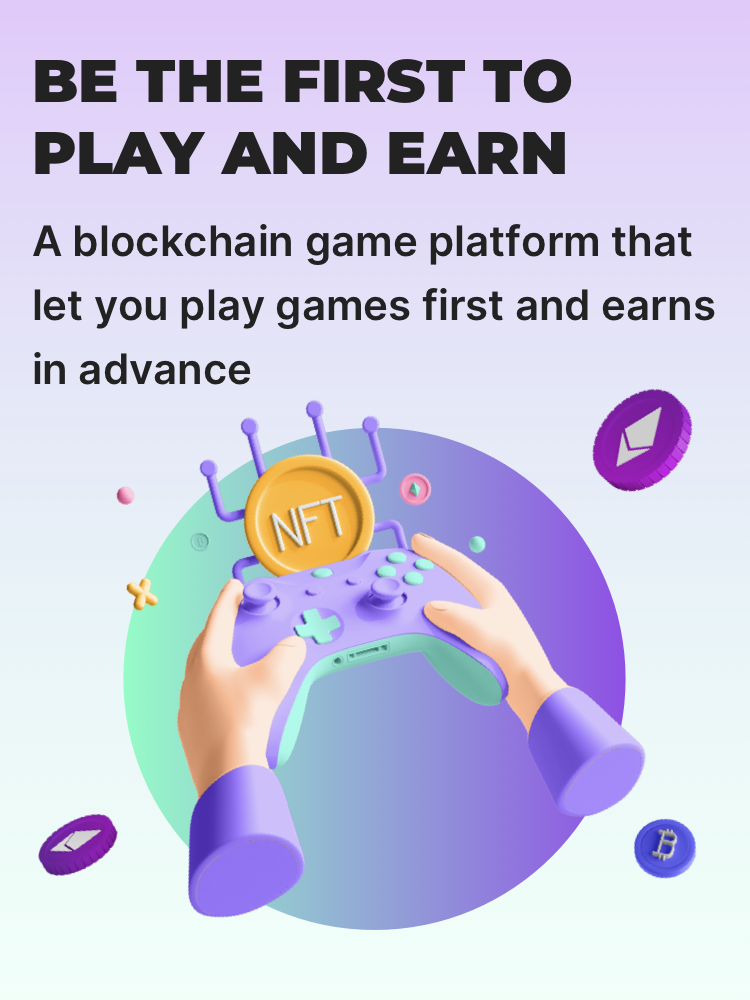
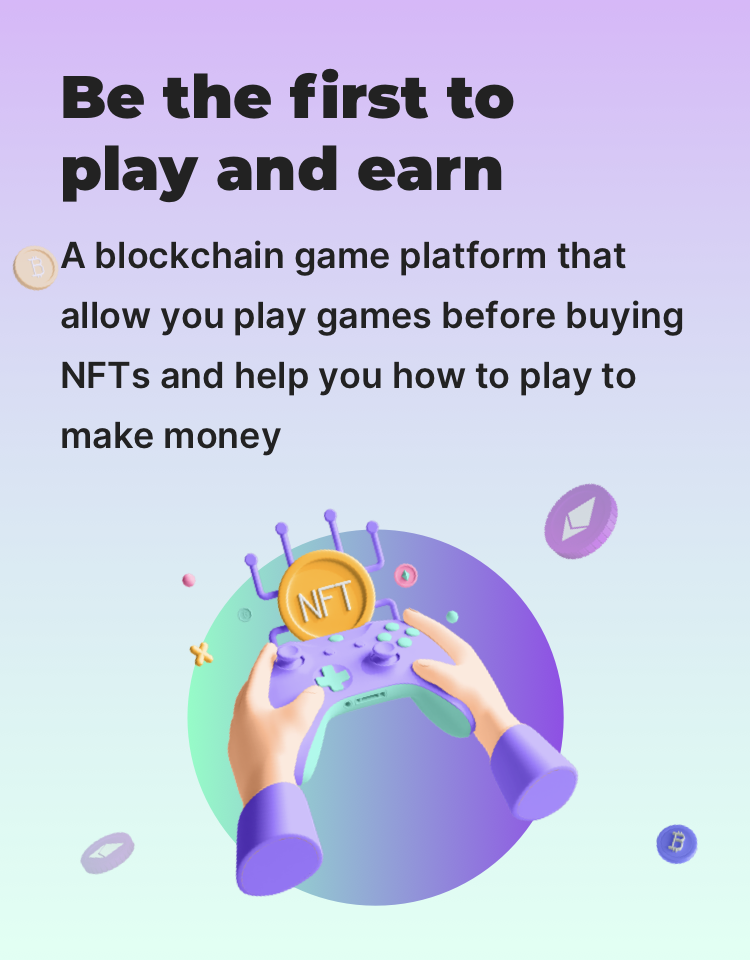
chore: update home page UI

diff --git a/components/Header/index.tsx b/components/Header/index.tsx
@@ -161,68 +161,70 @@ const Header: React.FC = () => {
       <Box className={styles.headerLogo}>
         <Image src="/headerLogo.png" alt="header logo" layout='fill' objectFit='contain' />
       </Box>
-      {!isMobileHeaderNav && <Box sx={{ display: 'flex', alignItems: 'center', height: '100%' }}>
-        <Stack direction="row" className={styles.headerNavs} >
-          <Box>
-            <Link href="/pass" >
-              <a target="_blank">{t('passNFT')}</a>
-            </Link>
-          </Box>
-          <Box>{t('games')}</Box>
-          <Box>{t('strategy')}</Box>
-        </Stack>
-        <Box className={styles.headerSetting}>
-          <Box className={styles.languageNav}>
-            <Box className={styles.headerNavImage}>
-              <Image src={HEADER_LANGUAGE} layout="fill" objectFit='contain' />
+      {!isMobileHeaderNav && isMounted &&
+        <Box sx={{ display: 'flex', alignItems: 'center', height: '100%' }}>
+          <Stack direction="row" className={styles.headerNavs} >
+            <Box>
+              <Link href="/pass" >
+                <a target="_blank">{t('passNFT')}</a>
+              </Link>
             </Box>
-            <Box className={styles.languageBox}>
-              <Box>
-                <Link href={asPath} locale="en-US">
-                  English
-                </Link>
+            <Box>{t('games')}</Box>
+            <Box>{t('strategy')}</Box>
+          </Stack>
+          <Box className={styles.headerSetting}>
+            <Box className={styles.languageNav}>
+              <Box className={styles.headerNavImage}>
+                <Image src={HEADER_LANGUAGE} layout="fill" objectFit='contain' />
               </Box>
-              <Box>
-                <Link href={asPath} locale="zh-CN">
-                  简体中文
-                </Link>
-              </Box>
-            </Box>
-          </Box>
-
-          <Box>
-            <Box className={styles.headerNavImage}>
-              <Image src={HEADER_SHARE} layout="fill" objectFit='contain' />
-            </Box>
-            <Box className={styles.socialMediaBox}>
-
-            </Box>
-          </Box>
-
-          {
-            address && isMounted ?
-              <Box
-                className={styles.walletNav}
-                onMouseEnter={() => { if (address) { setWalletMenu(true) } }}
-                onMouseLeave={() => setWalletMenu(false)}
-              >
-                <Box className={styles.headerNavImage} >
-                  <Image src={CONNECTED_WALLET} layout="fill" objectFit='contain' />
-                  {walletMenu && <HeaderUserInfo closeCallback={() => setWalletMenu(false)} />}
+              <Box className={styles.languageBox}>
+                <Box>
+                  <Link href={asPath} locale="en-US">
+                    English
+                  </Link>
+                </Box>
+                <Box>
+                  <Link href={asPath} locale="zh-CN">
+                    简体中文
+                  </Link>
                 </Box>
               </Box>
-              :
-              <Box className={styles.connectBtn} onClick={() => setShowConnect(true)}>
-                {t("connectWallet")}
+            </Box>
+
+            <Box>
+              <Box className={styles.headerNavImage}>
+                <Image src={HEADER_SHARE} layout="fill" objectFit='contain' />
               </Box>
-          }
+              <Box className={styles.socialMediaBox}>
 
-        </Box>
-      </Box>}
+              </Box>
+            </Box>
 
-      {isMobileHeaderNav && <Box className={styles.mobileMenuIcon} onClick={() => setMobileDrawer(!mobileDrawer)}>
-        {mobileDrawer ? <CloseIcon /> : <MenuIcon />}
-      </Box>}
+            {
+              address && isMounted ?
+                <Box
+                  className={styles.walletNav}
+                  onMouseEnter={() => { if (address) { setWalletMenu(true) } }}
+                  onMouseLeave={() => setWalletMenu(false)}
+                >
+                  <Box className={styles.headerNavImage} >
+                    <Image src={CONNECTED_WALLET} layout="fill" objectFit='contain' />
+                    {walletMenu && <HeaderUserInfo closeCallback={() => setWalletMenu(false)} />}
+                  </Box>
+                </Box>
+                :
+                <Box className={styles.connectBtn} onClick={() => setShowConnect(true)}>
+                  {t("connectWallet")}
+                </Box>
+            }
+
+          </Box>
+        </Box>}
+
+      {isMobileHeaderNav && isMounted &&
+        <Box className={styles.mobileMenuIcon} onClick={() => setMobileDrawer(!mobileDrawer)}>
+          {mobileDrawer ? <CloseIcon /> : <MenuIcon />}
+        </Box>}
     </Box>
 
     <ConnectWallet showConnect={showConnect} setShowConnect={setShowConnect} />

diff --git a/pages/index.tsx b/pages/index.tsx
@@ -27,7 +27,7 @@ const FirstPlay: NextPage<InferGetStaticPropsType<typeof getStaticProps>> = (pro
 
   return <Box>
     <Box className={styles.coverBox}>
-      <Image src={`/headerCover${coverSize}.png`} alt="cover image" layout="fill"  objectFit="cover" />
+      <Image priority src={`/headerCover${coverSize}.png`} alt="cover image" layout="fill" objectFit="cover" />
     </Box>
     <GudeStep />
     {/* <TrialGame /> */}
@@ -44,8 +44,7 @@ const FirstPlay: NextPage<InferGetStaticPropsType<typeof getStaticProps>> = (pro
         {t.rich('subTitle', {
           maillink: (children) => <a target="__blank" href="mailto:business@firstplay.io"><span>{children}</span></a>
         })}
-        {/* Please feel free to contact us via <a target="__blank" href="mailto:business@firstplay.io"><span>business@firstplay.io</span></a> for more support. */}
-        </Typography>
+      </Typography>
     </Box>
   </Box>
 }

diff --git a/components/PageHome/Support/index.tsx b/components/PageHome/Support/index.tsx
@@ -1,10 +1,11 @@
-import { Box } from "@mui/material"
+import { Box, useMediaQuery } from "@mui/material"
 import SectionTitle from "../components/SectionTitle"
 import styles from './style.module.scss'
 import Image from "next/image"
 
 const Support: React.FC = () => {
-
+  const isMobileSize = useMediaQuery("(max-width: 600px)")
+  
   return <Box className={styles.support}>
     <Box className={styles.supportBox}>
       <SectionTitle emphasize="Supported" normal="by" />
@@ -16,7 +17,7 @@ const Support: React.FC = () => {
         </Box>
         <Box className={styles.brandItem}>
           <Box>
-            <Image src="/YGG SEA_logo.png" layout="fill" objectFit="contain" />
+            <Image src={`/YGG SEA_logo.png`} layout="fill" objectFit="contain" />
           </Box>
         </Box>
         <Box className={styles.brandItem}>

diff --git a/components/PageHome/Support/style.module.scss b/components/PageHome/Support/style.module.scss
@@ -111,8 +111,8 @@
         justify-content: flex-start;
         margin-top: 1.75rem;
         .brandItem {
-          width: calc((100% - 1.66rem) / 3);
-          height: 3.33rem;
+          width: calc((100% - 1.66rem) / 2);
+          height: 4.33rem;
           margin: 0 0.27rem 0.83rem;
           // margin-bottom: 0.83rem;
         }

diff --git a/styles/home.module.scss b/styles/home.module.scss
@@ -1,7 +1,7 @@
 .coverBox {
   position: relative;
-  height: 31.25vw;
-  max-height: 45.83rem;
+  height: 26vw;
+  max-height: 41.67rem;
   // min-height: 33.33rem;
   object-fit: cover;
   background: linear-gradient(180deg, rgba(#984CEC, 0.3) 0%, rgba(110,255,196,0.3) 100%);
